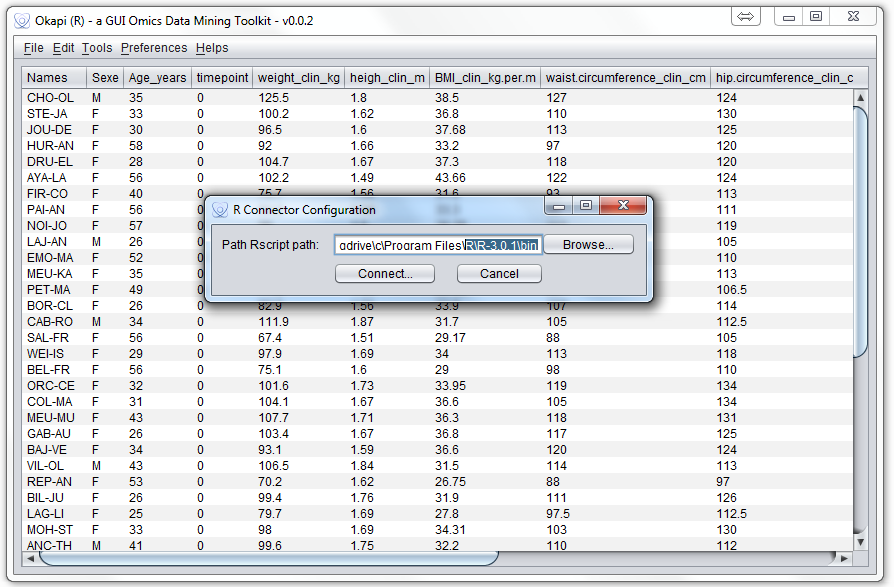
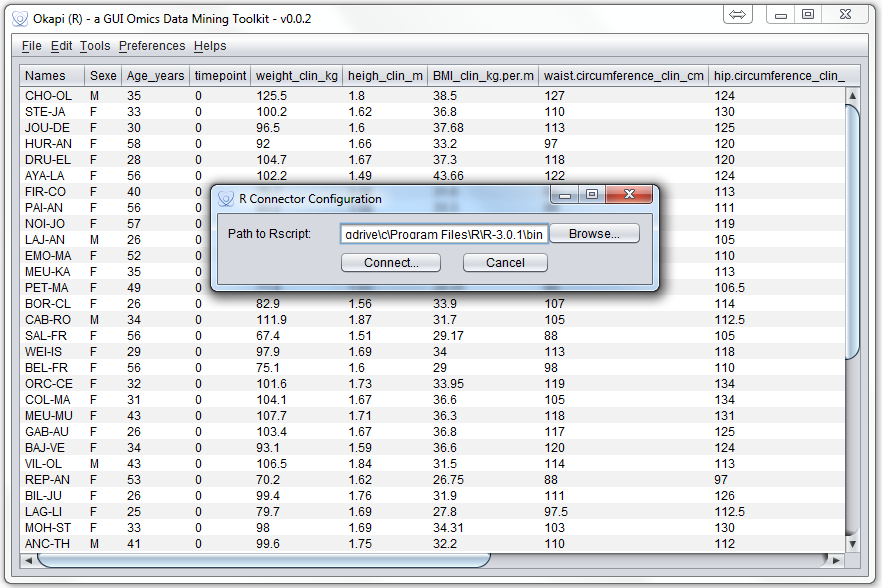
Okapi Eclipse Project

Changed region(s): [[0.0, 0.0, 1.0, 1.0]]

diff --git a/src/main/java/org/mc/okapi/RConnector.java b/src/main/java/org/mc/okapi/RConnector.java
@@ -44,7 +44,7 @@ public class RConnector extends JFrame {
 		
 		this.mf = mf;
 		
-		JLabel lblRscript = new JLabel("Path Rscript path:");
+		JLabel lblRscript = new JLabel("Path to Rscript:");
 		lblRscript.setBounds(10, 12, 133, 14);
 		contentPane.add(lblRscript);
 		
